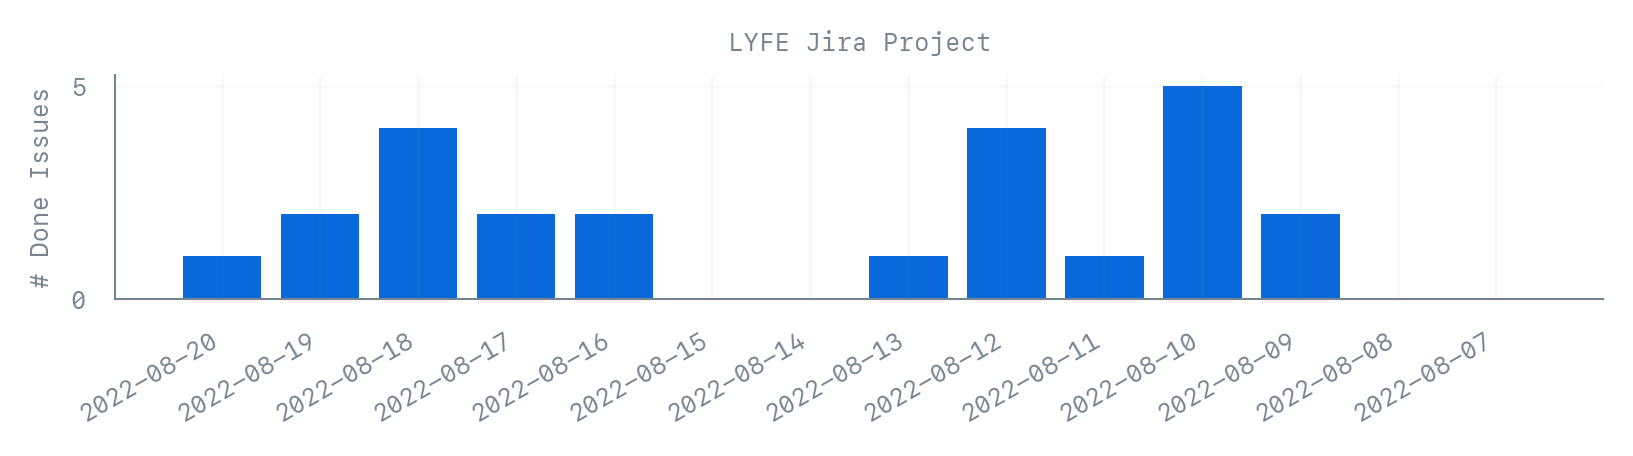
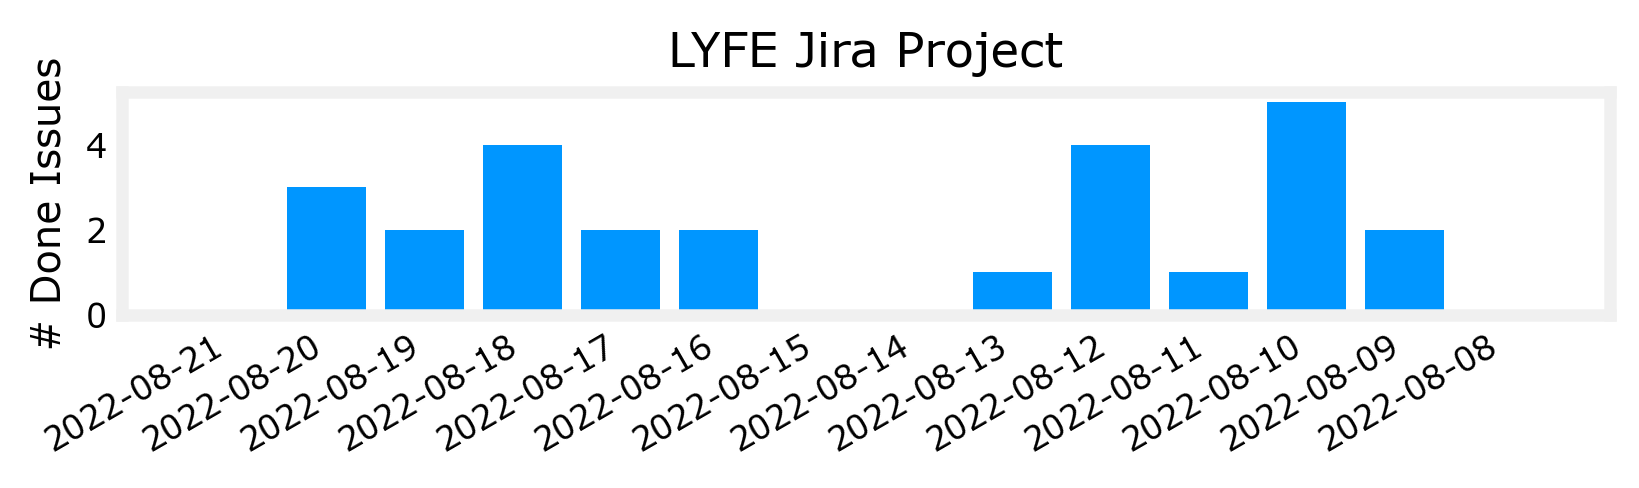
Use stylesheet, remove all unnecessary formatting

Changed region(s): [[0.0, 0.1228, 0.9682, 0.9211], [0.406, 0.0614, 0.6558, 0.1535]]

diff --git a/graph-hustle.py b/graph-hustle.py
@@ -14,9 +14,6 @@ DATE_FORMAT = r"%Y-%m-%d"
 DPI = 300
 GRID_ALPHA = 0.05
 ASPECT_RATIO = 0.15
-FONT_ENTRY = font_manager.FontEntry(fname="SFMono-Regular.otf", name="SFMono-Regular")
-font_manager.fontManager.ttflist.insert(0, FONT_ENTRY)
-matplotlib.rcParams["font.family"] = FONT_ENTRY.name
 
 
 def fixed_aspect_ratio(ratio):
@@ -32,35 +29,13 @@ def fixed_aspect_ratio(ratio):
 
 
 def save_plot(x, y):
-    # https://olgabotvinnik.com/blog/prettyplotlib-painlessly-create-beautiful-matplotlib/
-    plt.style.use("grayscale")
-    mpl.rcParams["font.family"] = FONT
-    spines_to_remove = ["top", "right"]
+    plt.style.use("./deeplearning.mplstyle")
     fig, ax = plt.subplots(1)
-    for spine in spines_to_remove:
-        ax.spines[spine].set_visible(False)
-    ax.xaxis.set_ticks_position("none")
-    ax.yaxis.set_ticks_position("none")
-    spines_to_keep = ["bottom", "left"]
-    for spine in spines_to_keep:
-        ax.spines[spine].set_linewidth(0.5)
-        ax.spines[spine].set_color(BLACK)
-    ax.xaxis.label.set_color(BLACK)
-    ax.tick_params(axis="x", colors=BLACK)
-    plt.xticks(fontsize=FONTSIZE)
-    ax.yaxis.label.set_color(BLACK)
-    ax.tick_params(axis="y", colors=BLACK)
-    plt.yticks(fontsize=FONTSIZE)
-    ax.bar(x, y, **{"color": f"{BLUE}"})  # , "marker": "."})
+    ax.bar(x, y)
     plt.gcf().autofmt_xdate()
     fixed_aspect_ratio(ASPECT_RATIO)
-    plt.grid(True, color=BLACK, alpha=GRID_ALPHA)
-    plt.ylabel("# Done Issues", fontsize=FONTSIZE)
-    plt.title(
-        f"LYFE Jira Project",
-        color=BLACK,
-        fontsize=FONTSIZE,
-    )
+    plt.ylabel("# Done Issues")
+    plt.title("LYFE Jira Project")
     plt.savefig("Jira_hustle_graph.png", bbox_inches="tight", dpi=DPI, transparent=True)
 
 
